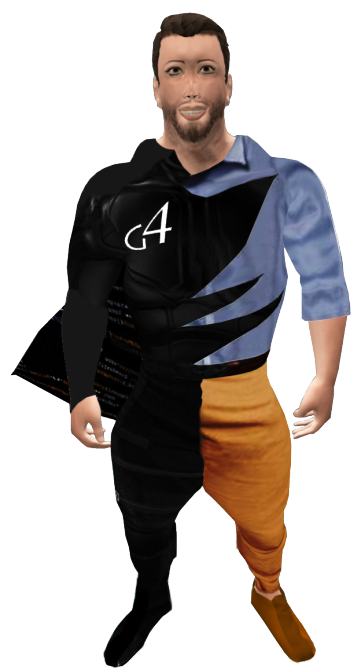
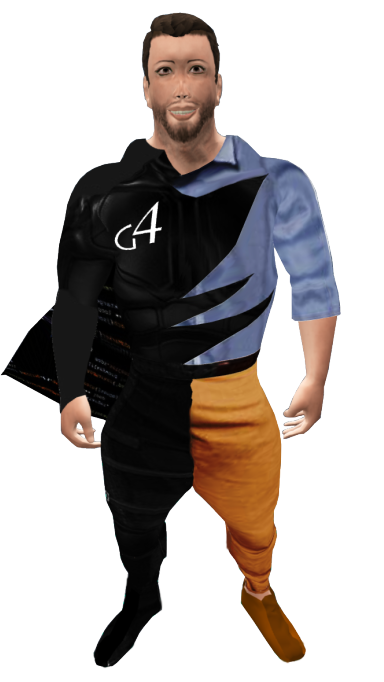
Bob centré

diff --git a/css/main.css b/css/main.css
@@ -552,7 +552,7 @@ div.folio-overview>img {
     margin-right: auto;
     left: 0;
     right: 0;
-    height: 35rem;
+    height: 45rem;
     margin-top: 3%;
 }
 
